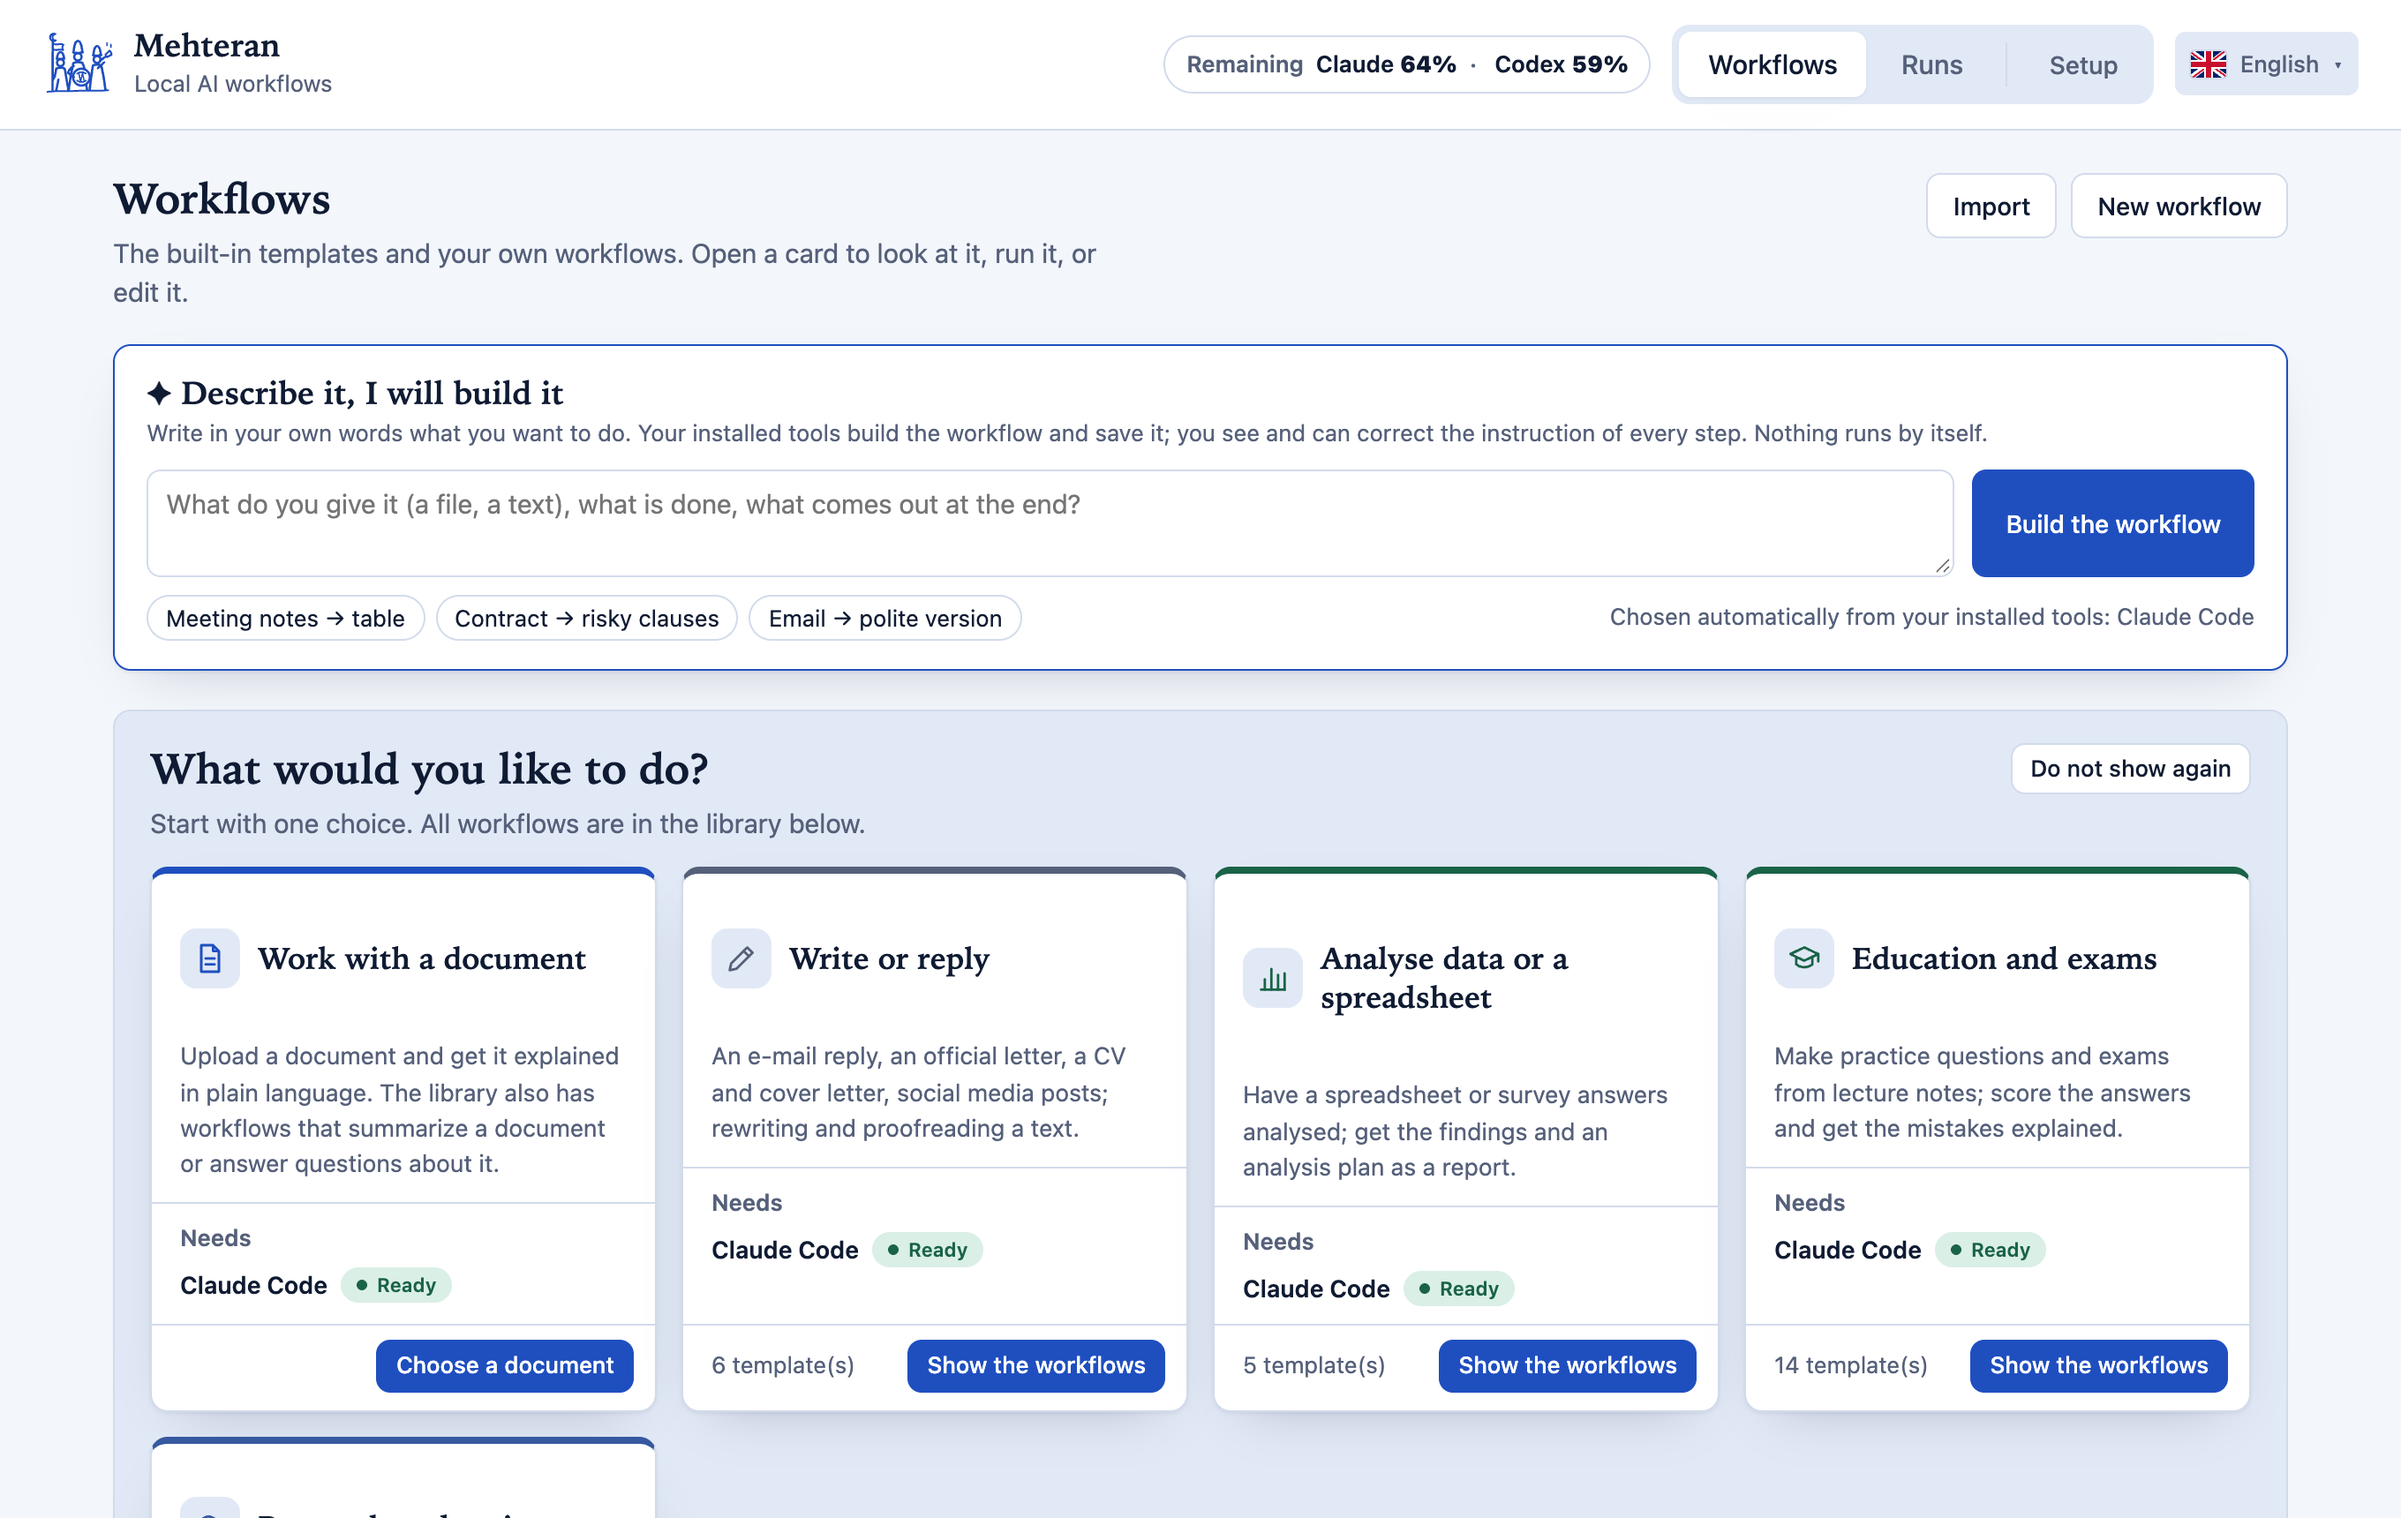
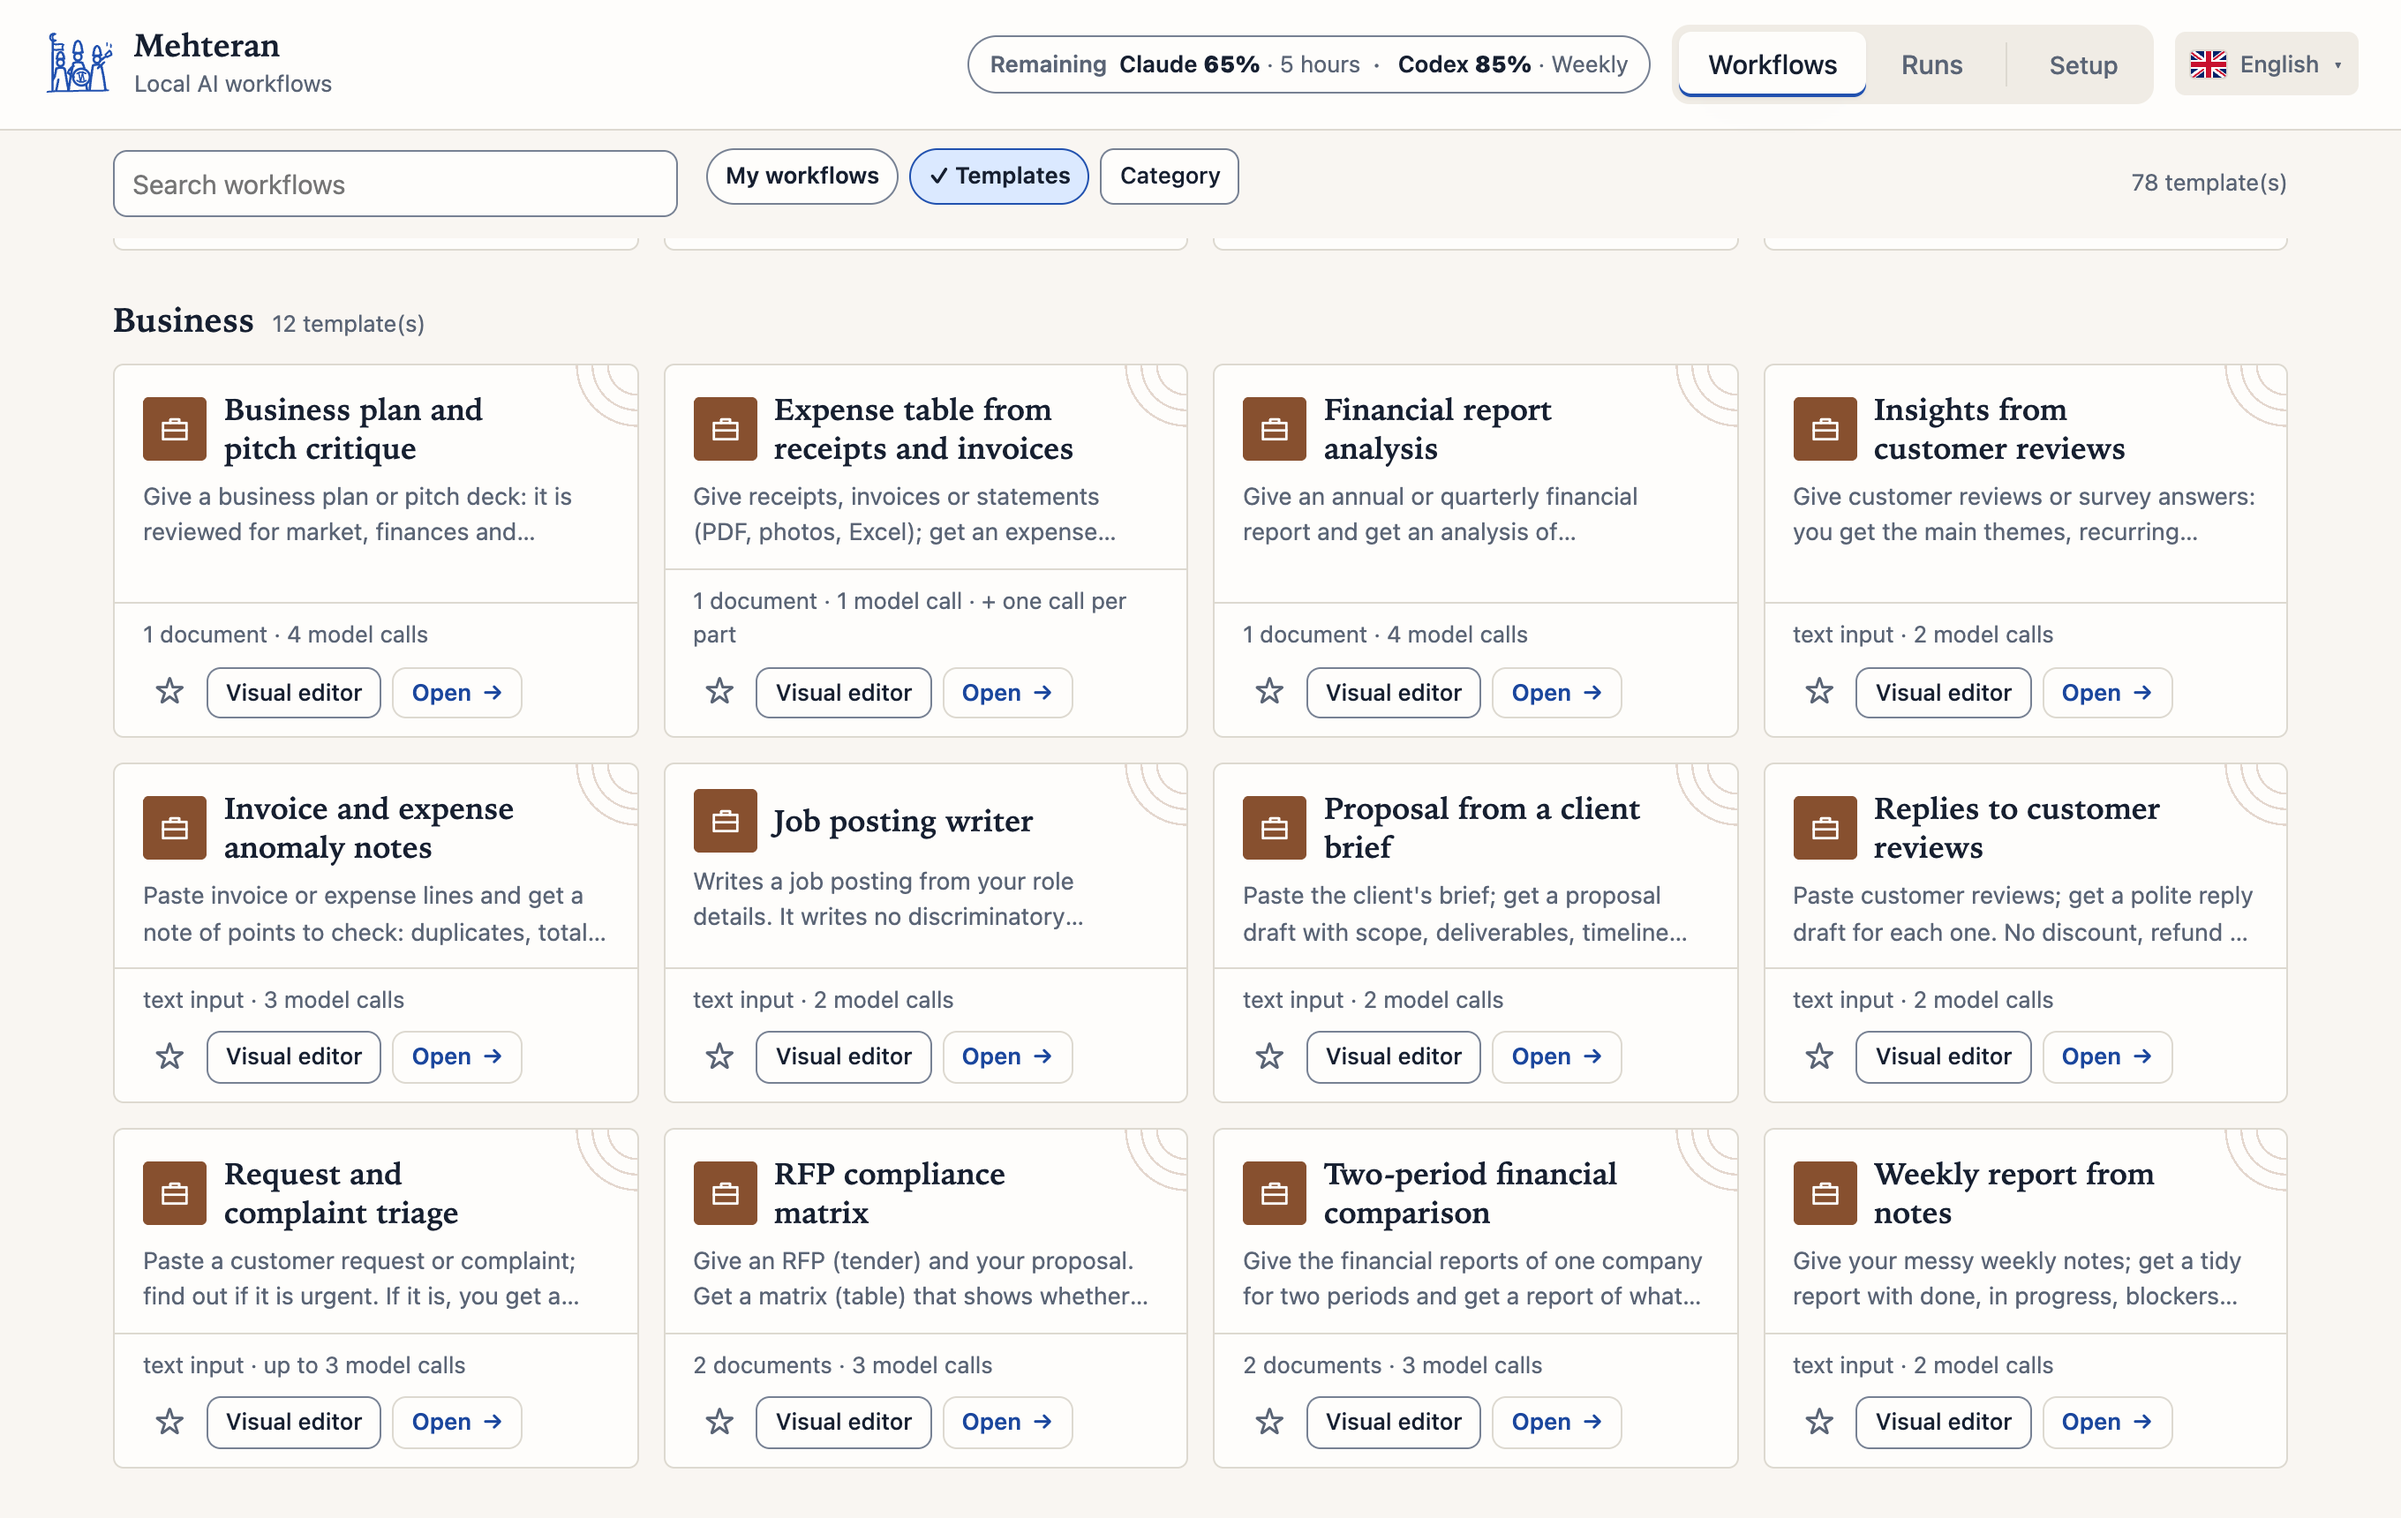
Website: the library with the new cards, and Recent runs

diff --git a/docs/index.html b/docs/index.html
@@ -327,6 +327,11 @@
         <p data-l="en">Each template is a normal workflow: open it, change its instructions, save it as your own.</p>
         <p data-l="tr">Her şablon sıradan bir iş akışıdır: açın, talimatlarını değiştirin, kendi akışınız olarak kaydedin.</p>
       </div>
+      <figure class="shot" style="margin:0 0 28px">
+        <div class="bar"><i></i><i></i><i></i><span>#workflows</span></div>
+        <img data-l="en" src="assets/screens/en-library.png" alt="The template library: cards with a category color, an icon tile, the inputs and model calls, and the Visual editor and Open buttons" width="1360" height="860" loading="lazy">
+        <img data-l="tr" src="assets/screens/tr-library.png" alt="Şablon kitaplığı: kategori rengi, ikon karesi, girdiler ve model çağrıları ile Görsel düzenleyici ve Aç düğmeleri olan kartlar" width="1360" height="860" loading="lazy">
+      </figure>
       <div class="cats">
         <div class="cat"><h3><span data-l="en">Web research</span><span data-l="tr">İnternetten araştırma</span><small>5</small></h3>
           <ul data-l="en"><li>AI news bulletin</li><li>Economy news bulletin</li><li>Find a place to stay (hotel)</li><li>Find home or car listings</li></ul>
@@ -377,6 +382,8 @@
             <li data-l="tr"><span>Her çalıştırmayı durdurun, sonra devam ettirin, tek bir adımı yeniden deneyin ya da modelini değiştirin.</span></li>
             <li data-l="en"><span>Compare two runs paragraph by paragraph. Edit a result and export the edited version.</span></li>
             <li data-l="tr"><span>İki çalıştırmayı paragraf paragraf karşılaştırın. Bir sonucu düzenleyin ve düzenlenmiş hâlini dışa aktarın.</span></li>
+            <li data-l="en"><span>The library opens with your recent runs: their status, "Results" and "Run again" with the same values.</span></li>
+            <li data-l="tr"><span>Kitaplık son çalıştırmalarınızla açılır: durumları, "Sonuçlar" ve aynı değerlerle "Yeniden çalıştır".</span></li>
             <li data-l="en"><span>Search, name and annotate runs. Delete old ones in one step.</span></li>
             <li data-l="tr"><span>Çalıştırmaları arayın, adlandırın, not ekleyin. Eskileri tek adımda silin.</span></li>
           </ul>
